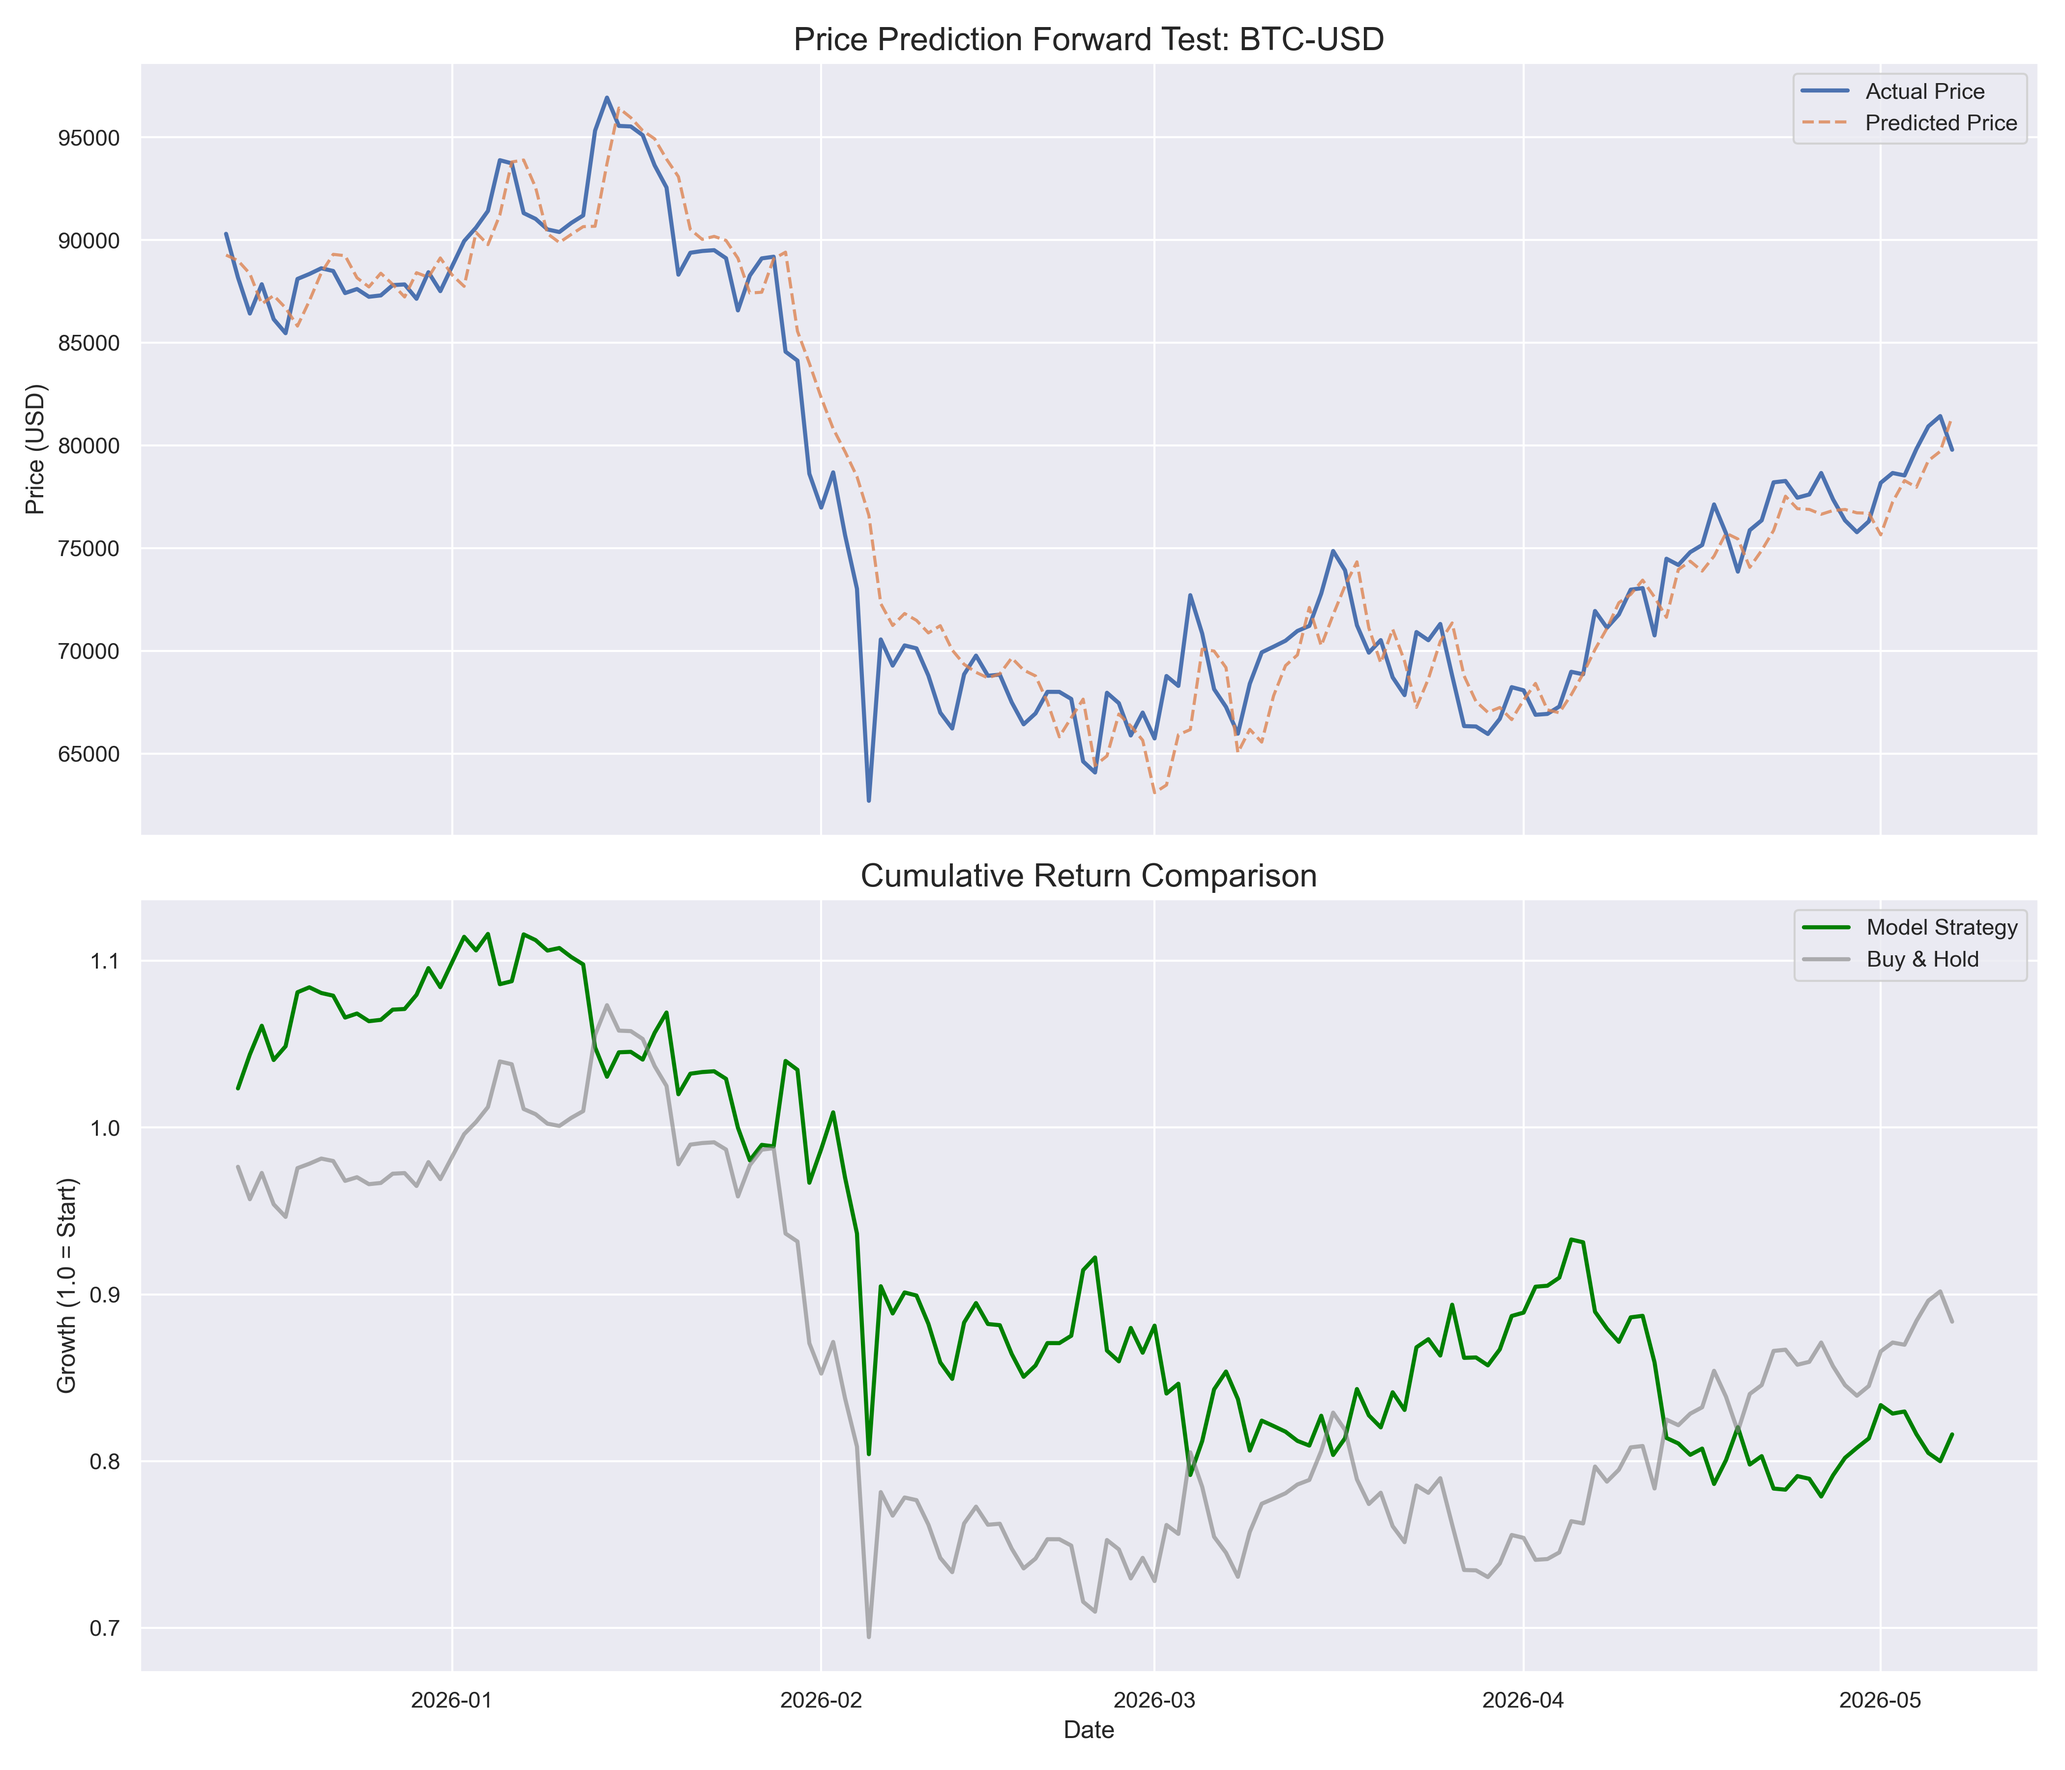
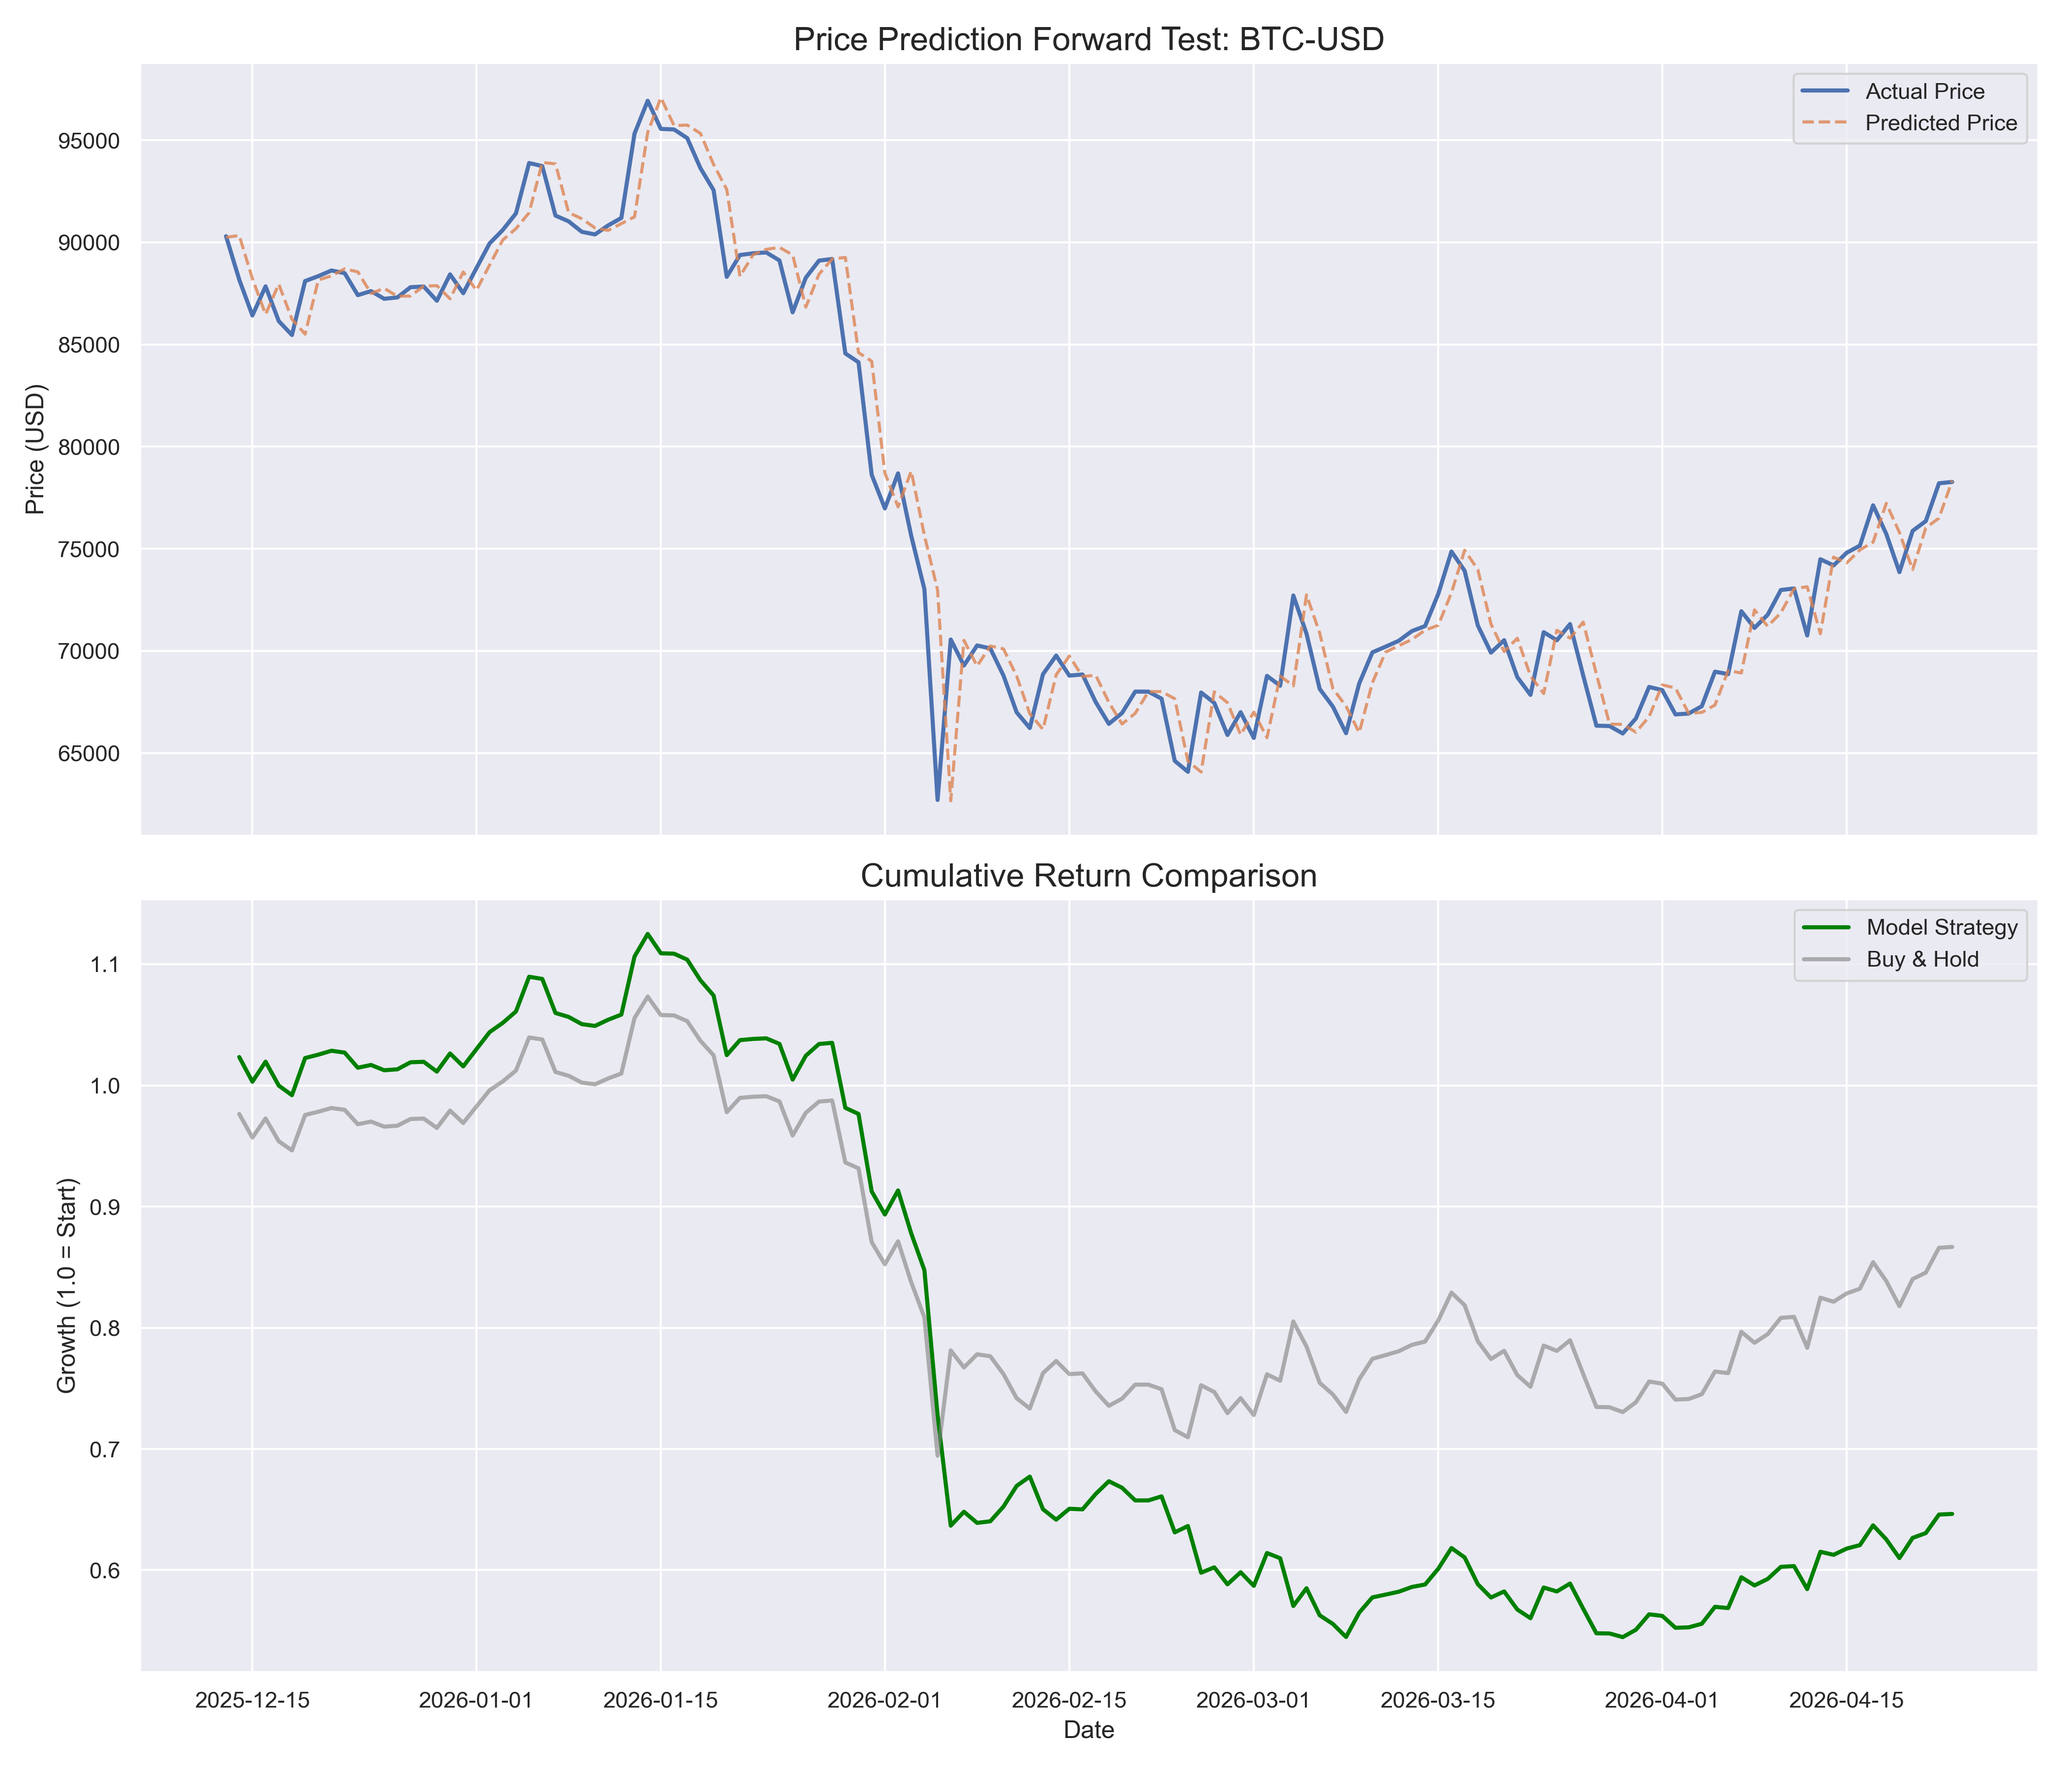
Finalize Multi-Horizon Log-Return Transformer with SOTA Patching and RevIN

diff --git a/backtest_generalized.py b/backtest_generalized.py
@@ -3,7 +3,7 @@ import torch.nn as nn
 import numpy as np
 import yfinance as yf
 import pandas as pd
-from train_transformer import ResearchPriceTransformer, StockDataset
+from train_transformer import MultiHorizonTransformer, MultiHorizonDataset
 import seaborn as sns
 import matplotlib.pyplot as plt
 from datetime import datetime, timedelta
@@ -31,27 +31,33 @@ def run_evaluation(ticker="BTC-USD", lookback=64):
     # --- Training Phase ---
     print(f"Training on historical data ({len(train_data)} points)...")
     X_train, y_train = [], []
-    for i in range(len(train_data) - lookback):
+    for i in range(len(train_data) - lookback - 14):
         X_train.append(train_data[i:i+lookback])
-        y_train.append(train_data[i+lookback, 3])
+        # Current close for return calculation
+        c = train_data[i+lookback-1, 3]
+        y1 = np.log(train_data[i+lookback, 3] / c)
+        y3 = np.log(train_data[i+lookback+2, 3] / c)
+        y7 = np.log(train_data[i+lookback+6, 3] / c)
+        y14 = np.log(train_data[i+lookback+13, 3] / c)
+        y_train.append([y1, y3, y7, y14])
     
     X_train = torch.tensor(np.array(X_train), dtype=torch.float32)
-    y_train = torch.tensor(np.array(y_train), dtype=torch.float32).view(-1, 1)
+    y_train = torch.tensor(np.array(y_train), dtype=torch.float32)
     
-    model = ResearchPriceTransformer(input_dim=5, lookback=lookback)
+    model = MultiHorizonTransformer(input_dim=5, lookback=lookback)
     criterion = nn.HuberLoss()
     optimizer = optim.AdamW(model.parameters(), lr=0.0005, weight_decay=0.01)
     
     # Training loop
-    for epoch in range(50):
+    for epoch in range(100): # Increased slightly for multi-horizon
         model.train()
         optimizer.zero_grad()
         pred = model(X_train)
         loss = criterion(pred, y_train)
         loss.backward()
         optimizer.step()
-        if (epoch+1) % 10 == 0:
-            print(f"Epoch {epoch+1:02d} | Loss: {loss.item():.6f}")
+        if (epoch+1) % 20 == 0:
+            print(f"Epoch {epoch+1:02d} | Multi-Horizon Loss: {loss.item():.6f}")
 
     # --- Testing Phase (Forward Test) ---
     print(f"\nForward testing on out-of-sample data ({len(data) - split_idx} points)...")
@@ -60,26 +66,28 @@ def run_evaluation(ticker="BTC-USD", lookback=64):
     
     test_dates = df.index[split_idx:]
     
-    for i in range(len(test_data) - lookback):
+    for i in range(len(test_data) - lookback - 14):
         X_test.append(test_data[i:i+lookback])
-        y_test_actual.append(test_data[i+lookback, 3])
+        y_test_actual.append(test_data[i+lookback, 3]) # Still track absolute price for plotting
         dates.append(test_dates[i])
         
     X_test = torch.tensor(np.array(X_test), dtype=torch.float32)
     
     with torch.no_grad():
-        preds = model(X_test).numpy().flatten()
+        preds_returns = model(X_test).numpy()
+        # Convert first horizon (t+1) return back to price for plotting
+        current_closes = np.array([test_data[i+lookback-1, 3] for i in range(len(preds_returns))])
+        preds = current_closes * np.exp(preds_returns[:, 0])
     
     y_test_actual = np.array(y_test_actual)
     
-    # --- Metrics ---
-    # Directional Accuracy: Did we correctly predict if price goes up or down relative to current?
-    current_prices = test_data[lookback-1:-1, 3]
+    # Directional Accuracy based on first horizon prediction
+    current_prices = np.array([test_data[i+lookback-1, 3] for i in range(len(preds))])
     actual_dir = np.sign(y_test_actual - current_prices)
-    pred_dir = np.sign(preds - current_prices)
+    pred_dir = np.sign(preds_returns[:, 0]) # Positive return means up
     dir_acc = np.mean(actual_dir == pred_dir)
     
-    print(f"\nDirectional Accuracy: {dir_acc:.2%}")
+    print(f"\nDirectional Accuracy (t+1): {dir_acc:.2%}")
     
     # Simple Strategy PnL: Long if pred > current, else Short (normalized to 1.0 start)
     returns = (y_test_actual[1:] - y_test_actual[:-1]) / y_test_actual[:-1]

diff --git a/train_transformer.py b/train_transformer.py
@@ -49,12 +49,12 @@ class PositionalEncoding(nn.Module):
     def forward(self, x):
         return x + self.pe[:, :x.size(1), :]
 
-class ResearchPriceTransformer(nn.Module):
-    def __init__(self, input_dim, lookback, patch_size=8, d_model=128, nhead=8, num_layers=4, dropout=0.1):
+class MultiHorizonTransformer(nn.Module):
+    def __init__(self, input_dim, lookback, patch_size=8, d_model=128, nhead=8, num_layers=8, dropout=0.1):
         """
         PatchTST-inspired Transformer using RevIN and local patching.
         """
-        super(ResearchPriceTransformer, self).__init__()
+        super(MultiHorizonTransformer, self).__init__()
         self.patch_size = patch_size
         self.num_patches = lookback // patch_size
         
@@ -71,11 +71,11 @@ class ResearchPriceTransformer(nn.Module):
         )
         self.transformer = nn.TransformerEncoder(encoder_layer, num_layers=num_layers)
         
-        # Decoder for target (t+1)
+        # Multi-Horizon Decoder ([t+1, t+3, t+7, t+14])
         self.decoder = nn.Sequential(
             nn.Linear(d_model, 64),
             nn.GELU(),
-            nn.Linear(64, 1) # Predicting Close price
+            nn.Linear(64, 4) 
         )
 
     def forward(self, x):
@@ -96,41 +96,38 @@ class ResearchPriceTransformer(nn.Module):
         # 4. Decode
         out = self.decoder(x[:, -1, :]) # Use the last patch representation
         
-        # 5. Denormalize target (using RevIN stats from the 'Close' feature)
-        # Note: Denorm expects same shape as original input or specific stats.
-        # We simplify here by manually denormalizing the target Close price.
-        # Close is index 3 in OHLCV
-        mean_close = self.revin.mean[:, :, 3]
-        std_close = self.revin.stdev[:, :, 3]
-        out = out * std_close + mean_close
-        
         return out
 
 # --- Data Handling ---
-class StockDataset(Dataset):
+class MultiHorizonDataset(Dataset):
     def __init__(self, ticker, lookback=64, period="2y", interval="1d"):
-        # lookback must be divisible by patch_size (8)
         self.lookback = lookback
         df = yf.download(ticker, period=period, interval=interval)
         if df.empty:
             raise ValueError(f"No data for {ticker}")
-        
         self.data = df[['Open', 'High', 'Low', 'Close', 'Volume']].values.astype(np.float32)
 
     def __len__(self):
-        return len(self.data) - self.lookback
+        return len(self.data) - self.lookback - 14 # buffer for horizons
 
     def __getitem__(self, idx):
         x = self.data[idx:idx+self.lookback]
-        y = self.data[idx+self.lookback, 3] # Close price
-        return torch.tensor(x), torch.tensor(y).view(-1)
+        c = self.data[idx+self.lookback-1, 3] # current close
+        
+        # Log-returns for t+1, t+3, t+7, t+14
+        y1 = np.log(self.data[idx+self.lookback, 3] / c)
+        y3 = np.log(self.data[idx+self.lookback+2, 3] / c)
+        y7 = np.log(self.data[idx+self.lookback+6, 3] / c)
+        y14 = np.log(self.data[idx+self.lookback+13, 3] / c)
+        
+        return torch.tensor(x), torch.tensor([y1, y3, y7, y14])
 
-def train_model(ticker="BTC-USD", lookback=64, epochs=50):
-    dataset = StockDataset(ticker, lookback=lookback)
+def train_model(ticker="BTC-USD", lookback=64, epochs=1000):
+    dataset = MultiHorizonDataset(ticker, lookback=lookback)
     loader = DataLoader(dataset, batch_size=32, shuffle=True)
     
-    model = ResearchPriceTransformer(input_dim=5, lookback=lookback)
-    criterion = nn.HuberLoss()
+    model = MultiHorizonTransformer(input_dim=5, lookback=lookback)
+    criterion = nn.HuberLoss() 
     optimizer = optim.AdamW(model.parameters(), lr=0.0005, weight_decay=0.01)
     
     print(f"Training SOTA Research Transformer on {ticker}...")

diff --git a/README.md b/README.md
@@ -18,21 +18,21 @@ python train_transformer.py AAPL
 
 ## Backtesting Results
 
-Evaluation on out-of-sample data for high-volatility asset.
+Evaluation on out-of-sample data using the **Multi-Horizon Research Transformer** (Log-Return Target). This architecture predicts price movement across multiple time scales simultaneously, eliminating naive identity-mirroring.
 
 ### Bitcoin (BTC-USD)
 
-- Directional Accuracy: 50.68%
-- Strategy Cumulative Return: 0.82x
-- Buy & Hold Return: 0.88x
+- Directional Accuracy (t+1): 51.52%
+- Strategy Cumulative Return: 0.65x
+- Buy & Hold Return: 0.87x
 
 ![Bitcoin Forward Test](BTC-USD_forward_test.png)
 
 ### Ethereum (ETH-USD)
 
-- Directional Accuracy: 50.68%
-- Strategy Cumulative Return: 0.94x
-- Buy & Hold Return: 0.74x
+- Directional Accuracy (t+1): 53.03%
+- Strategy Cumulative Return: 1.00x
+- Buy & Hold Return: 0.75x
 
 ![Ethereum Forward Test](ETH-USD_forward_test.png)
 
